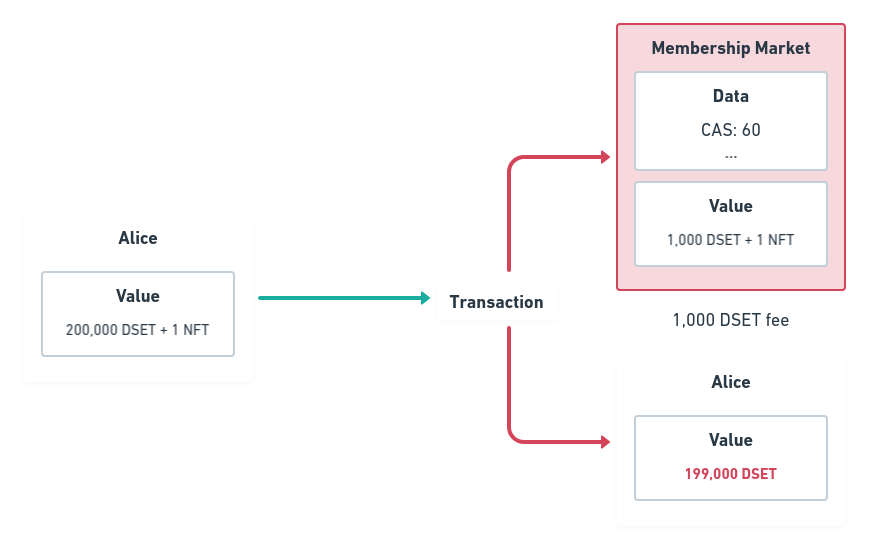
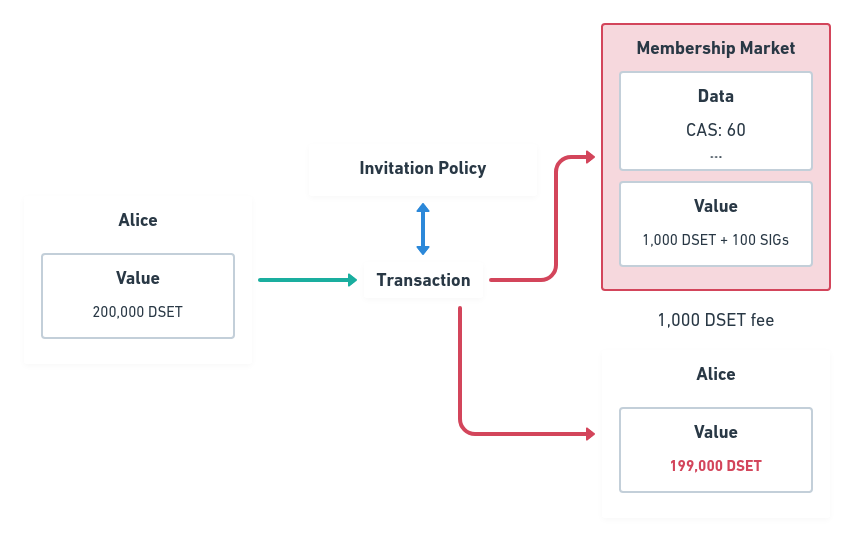
Updated membership section

diff --git a/README.md b/README.md
@@ -172,8 +172,8 @@ language contracts and providing the ease of use so valued in our current world.
 2. [Solution](#soltution)
 3. [Implementation](#implementation)
   * [Membership](#membership)
-  * [Service](#service)
   * [Contracts](#contracts)
+  * [Service](#service)
   * [Accusation](#accusation)
   * [Trials](#trials)
   * [Rewards and Penalties](#rewards-and-penalties)
@@ -225,13 +225,12 @@ DigiServices will allow users to build flexible and versatile smart legal contra
 #### A. Membership
 In order to make someone's trustworthiness easily accessible, DigiServices makes use of a "membership" logic. This membership will be necessary in order to offer, request or mediate services. It offers a way of measuring trust by giving each user a CAS score, which can increase or decrease based on multiple factors, such as user reviews and activity.
 
-An initial registration fee in DSET is required to assure commitment. The registration allow access to all tools and platform services. The initial CAS score will be 60 in a range from 0 to 100, and it will be all parties’ task to increase it to higher levels. At the initial stage the deposited Trust Token will be the most critical factor to appeal the counter-party and build trust. After few transactions the additional CAS elements will enter into play. All members are allowed to link their profile to related sites to show their achievements, skills in the specific field. Trust is, therefore, measured by analyzing someone's CAS score, amount of deposited trust tokens and profile information.
+An initial registration fee in DSET is required to assure commitment. The registration allow access to all tools and platform services. The initial CAS score will be 60 in a range from 0 to 100, and it will be all parties’ task to increase it to higher levels. At the initial stage the deposited Trust Token will be the most critical factor to appeal the counter-party and build trust. After few transactions the additional CAS elements will enter into play. All members are allowed to link their profile to related sites to show their achievements, skills in the specific field. Trust is, therefore, measured by analyzing someone's CAS score, amount of deposited trust tokens (in the contract) and profile information.
 
 ![Join Platform Example](images/join-platform.png)
 
-In the underlying protocol, membership will work by combining a "membership market" validator script with a "membership invitation" minting policy. In order to join DigiServices, a user will create an arbitrary non-fungible token to represent his "account", send this NFT to the marketplace together with the one-time entrance fee and provide the initial Datum.
+In the underlying protocol, membership will work by creating an "account" (represented by the Membership Market UTxO) using a "membership signature" minting policy. This minting policy will mint 100 new SIG tokens (with the user's public key hash as it's name) and deposit it in the newly created user "account" (a script validator that handles service offers and requests) provided that it also receives the entrance fee (in the example 1,000 DSET). This tokens are minted in order to create an actual identification mechanism since they will be used inside accusation contracts and there needs to be a way of proving that a user actually agreed with the rules.
 
-![Membership Invitation Example](images/membership-invitation)
+Furthermore, they will be used to perform actions, such as publishing a service and are important to "officiate" the UTxO. Though "Membership Market" UTxOs have the same logic and address, they are identified uniquely for each user (with their SIG tokens) in order to ensure that concurrency is possible. If instead they used a single NFT, user's wouldn't be able to join the platform at the same time, making the protocol slow and susceptible to spam attacks.
 
-This user will then be able to mint "invite tokens" (IVT), whose names are the user's public key hash, by providing a number as a redeemer (the number of "invitations" that will be minted). These tokens can be used to perform actions, such as publishing a service. Though "Membership Market" UTxOs have the same logic and validator hash, they are identified uniquely for each user (with their NFT) in order to ensure that concurrency is possible. Otherwise user's wouldn't be able to join the platform at the same time, making the protocol susceptible to spam attacks.
 
